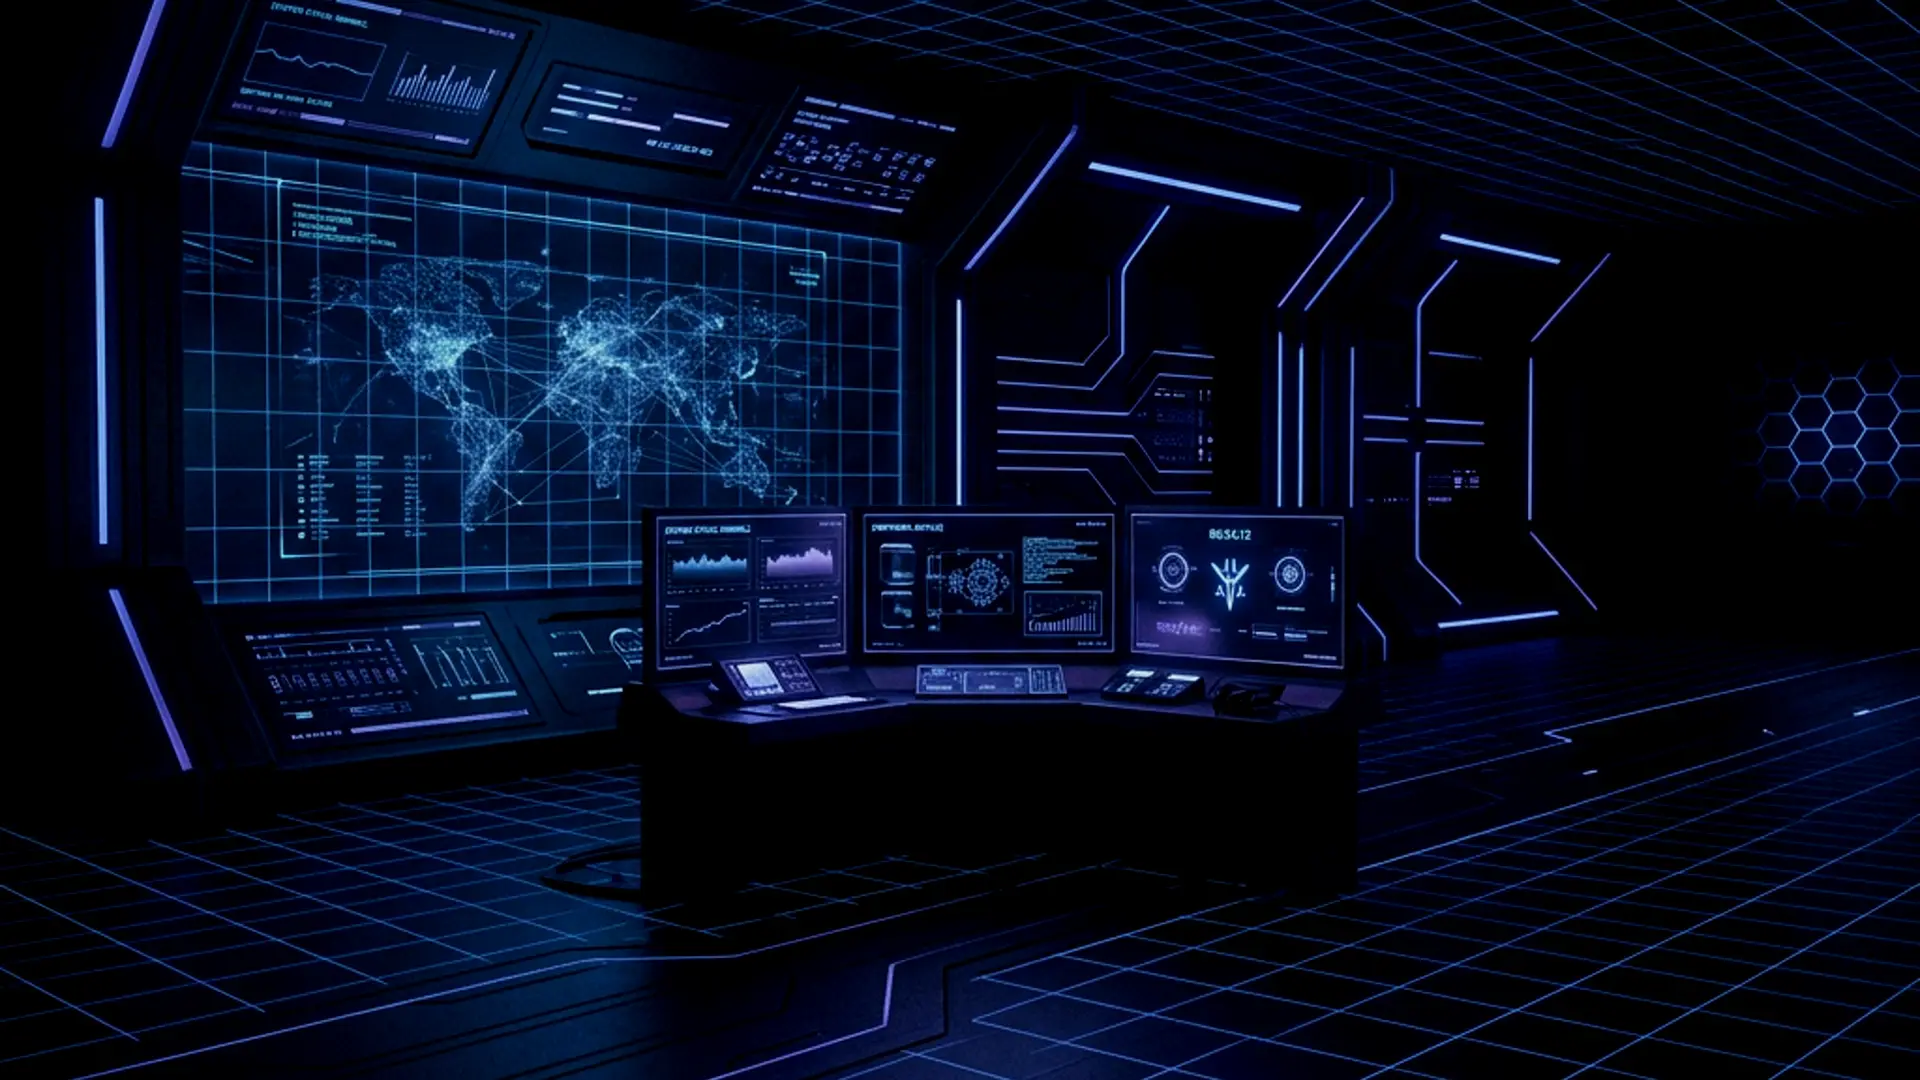
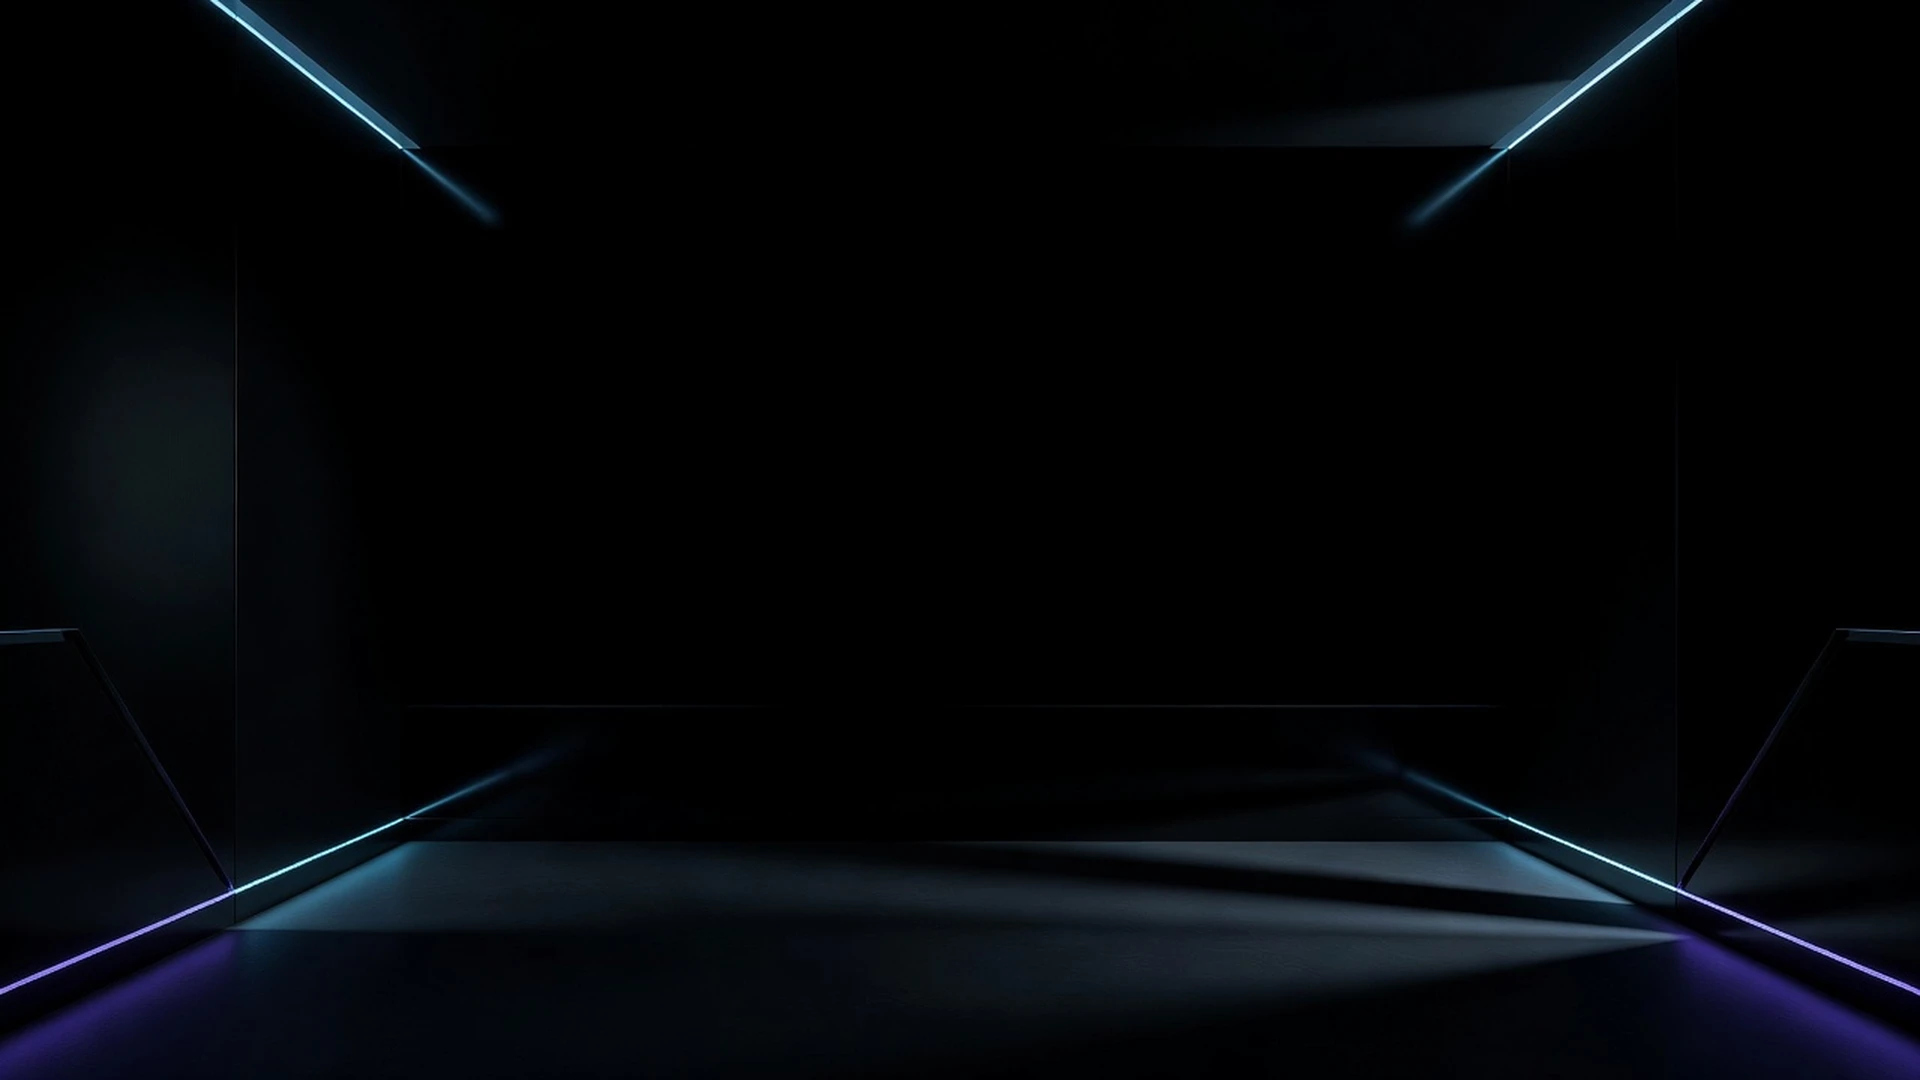
feat: update Jellyfin background with ultra-dark cinematic studio backdrop

diff --git a/README.md b/README.md
@@ -1,0 +1,18 @@
+# Jellyfin Theme – Aurora Noir
+
+Custom Cinematic Theme für Jellyfin ([stream.free-warez.win](https://stream.free-warez.win)).
+
+---
+
+## 📁 Struktur
+- `web-assets/aurora_noir.css`: Quelldatei für das vollständige CSS-Theme (MUI Overrides, Glows, Glassmorphism).
+- `web-assets/custom_bg.webp`: Hintergrundgrafik (1920x1080).
+- `web-assets/custom_favicon.ico`: Benutzerdefiniertes Favicon.
+- `branding.xml`: Jellyfin Server-Konfiguration mit eingebettetem XML-escaped CSS.
+- `THEME-README.md`: Detaillierte Architektur & Historie (Traefik rewritebody Injection etc.).
+- `deploy.sh`: Synchronisiert die Assets zum VPS, konvertiert CSS -> XML und startet den Jellyfin Container neu.
+
+## 🚀 Deployment
+```bash
+./deploy.sh
+```
